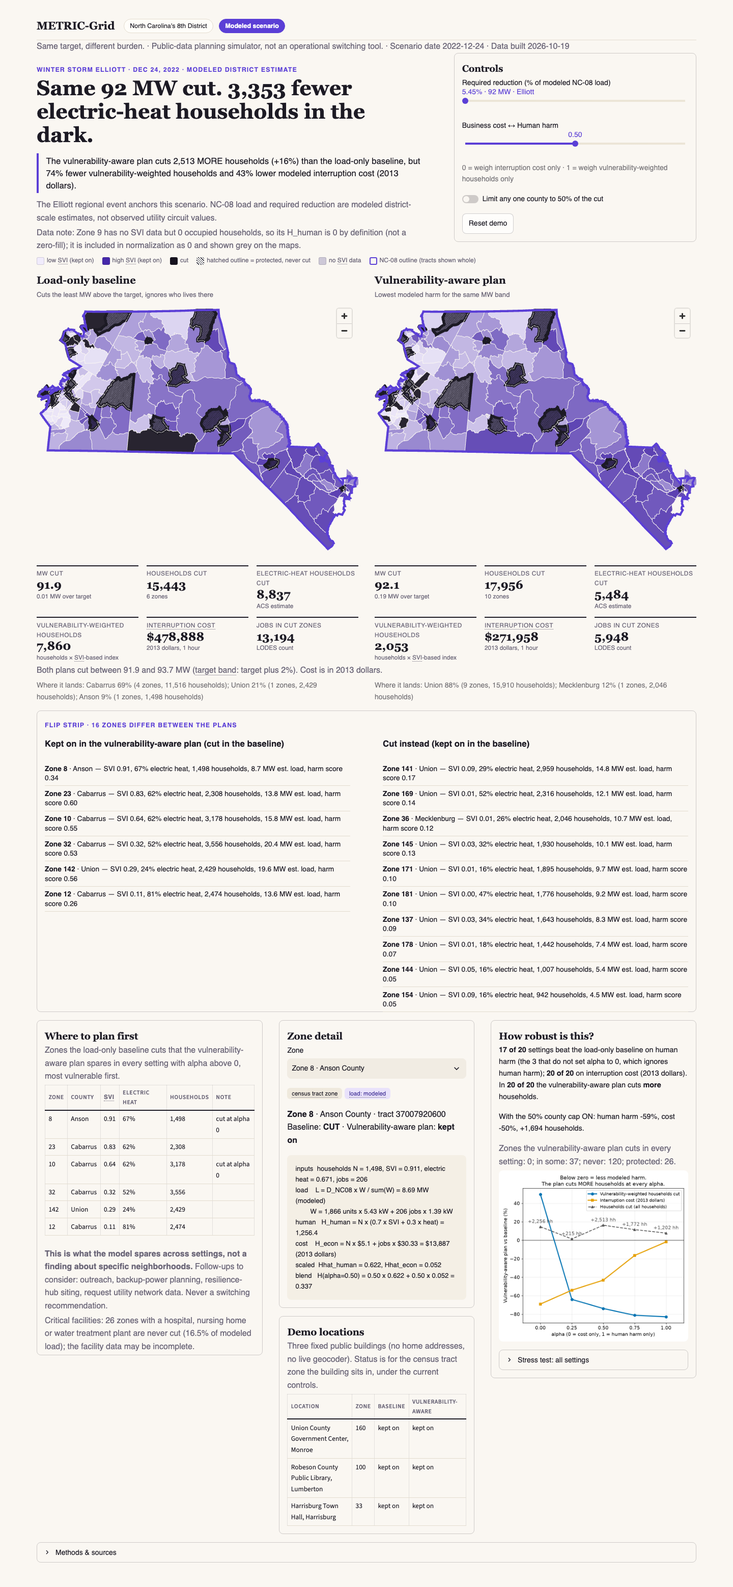
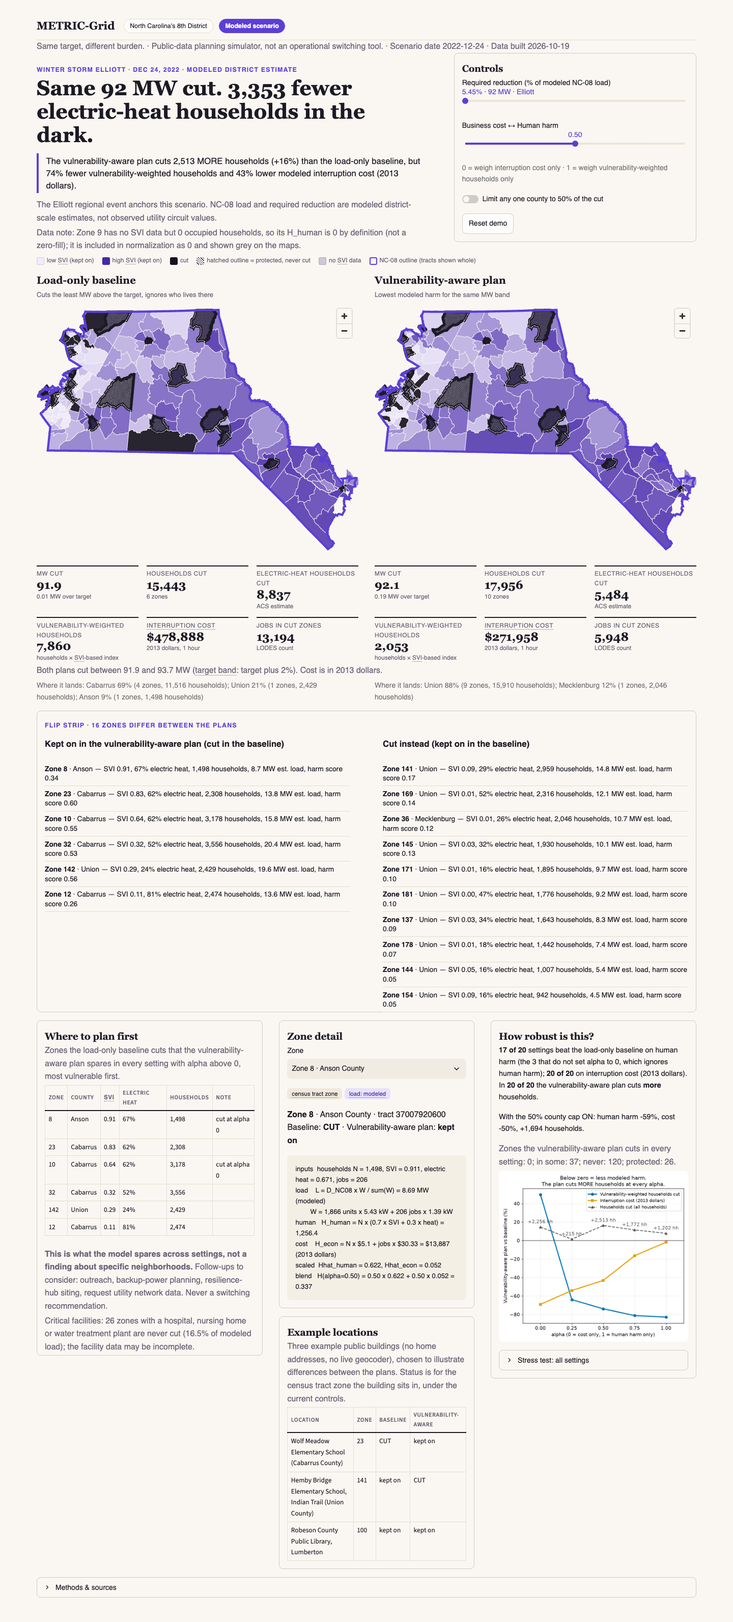
Example locations, verified citations, preset-only slider, split pinned requirements, firmware removed, spec amendments

diff --git a/tests/test_app.py b/tests/test_app.py
@@ -147,7 +147,7 @@ def test_get_view_prefers_presolved_and_falls_back_with_a_note(monkeypatch):
     A = data.load_all()
     v = data.get_view(0.5, data.pct_options(A["consts"], A["cfg"])[0], False)
     assert v["source"] == "pre-solved" and v["note"] is None
-    pct = 12.5  # not a preset: needs a live solve
+    pct = 12.5  # off the slider (the app never offers it): exercises the safety-net path directly
 
     monkeypatch.setattr(data, "_live_solve", lambda a, t, c: {"error": "ValueError: boom"})
     v = data.get_view(0.5, pct, False)
@@ -188,17 +188,28 @@ def test_zone_detail_empty_state_when_no_zone_selected():
     assert not at.exception and "Select a zone to see its inputs and the harm formula" in page_text(at)
 
 
-def test_demo_locations_each_inside_a_zone_of_the_right_county():
+def test_example_locations_each_inside_a_zone_of_the_right_county():
     from metric_grid.app import lookup
     from metric_grid.config import load_config
     z = frozen.load_zones()
-    locs = load_config()["demo_locations"]
+    locs = load_config()["example_locations"]
     assert len(locs) == 3 and {l["county"] for l in locs} == {"Union", "Robeson", "Cabarrus"}
     for loc in locs:
         zid = lookup.locate(z, loc["lat"], loc["lon"])
         assert zid is not None
         assert z.loc[z["zone_id"] == zid, "COUNTY"].iloc[0] == f"{loc['county']} County"
-        assert "home" not in loc["label"].lower() and "residence" not in loc["label"].lower()
+        assert "home" not in loc["label"].lower() and "residence" not in loc["label"].lower() and loc["source"]
+
+
+def test_example_locations_illustrate_a_difference_between_the_plans(default_page):
+    from metric_grid.app import lookup
+    from metric_grid.config import load_config
+    rec = [r for r in frozen.load_presolved() if r["target_key"] == "elliott" and r["alpha"] == 0.5 and not r["cap"]][0]
+    rows = {r["zone_id"]: r for r in lookup.lookup_rows(frozen.load_zones(), load_config()["example_locations"], scenarios.record_to_pair(rec))}
+    assert (rows[23]["baseline"], rows[23]["weighted"]) == ("CUT", "kept on")  # spared by the vulnerability-aware plan
+    assert (rows[141]["baseline"], rows[141]["weighted"]) == ("kept on", "CUT")  # cut instead
+    assert (rows[100]["baseline"], rows[100]["weighted"]) == ("kept on", "kept on")  # the Robeson library
+    assert "Example locations" in page_text(default_page) and "Demo locations" not in page_text(default_page)
 
 
 def test_locate_and_status_edge_cases():
@@ -212,13 +223,13 @@ def test_locate_and_status_edge_cases():
     assert lookup.status(z, cut, pair.weighted) == "CUT"
 
 
-def test_demo_location_table_shows_status_under_both_plans(default_page):
+def test_example_location_table_shows_status_under_both_plans(default_page):
     from metric_grid.app import lookup
     from metric_grid.config import load_config
     text = page_text(default_page)
     rec = [r for r in frozen.load_presolved() if r["target_key"] == "elliott" and r["alpha"] == 0.5 and not r["cap"]][0]
     pair = scenarios.record_to_pair(rec)
-    for row in lookup.lookup_rows(frozen.load_zones(), load_config()["demo_locations"], pair):
+    for row in lookup.lookup_rows(frozen.load_zones(), load_config()["example_locations"], pair):
         assert f"<td>{row['label']}</td><td>{row['zone_id']}</td><td>{row['baseline']}</td><td>{row['weighted']}</td>" in text
 
 
@@ -231,6 +242,8 @@ def test_tooltips_for_svi_ice_census_tract_zone_and_target_band(default_page):
 
 def test_infeasible_target_shows_explanation_and_nearest_result(monkeypatch):
     from metric_grid.app import data
+    real = data.pct_options
+    monkeypatch.setattr(data, "pct_options", lambda c, g: real(c, g) + [12.5])  # a stop that is not pre-solved
     monkeypatch.setattr(data, "_live_solve", lambda a, t, c: {"infeasible": "Requested 999.0 MW exceeds the unprotected load.",
                                                                "max_feasible_mw": 1407.5})
     at = AppTest.from_file(APP, default_timeout=120)
@@ -240,6 +253,23 @@ def test_infeasible_target_shows_explanation_and_nearest_result(monkeypatch):
     text = page_text(at)
     assert "This target cannot be met" in text and "maximum feasible reduction 1407.5 MW" in text
     assert "class='note warn'" in text and "Showing the nearest pre-computed setting" in text
+
+
+def test_slider_has_only_the_four_presolved_stops():
+    from metric_grid.app import data
+    from metric_grid.config import load_config
+    consts = frozen.load_constants()
+    opts = data.pct_options(consts, load_config())
+    assert len(opts) == 4 and opts[1:] == [10, 15, 20]
+    assert abs(opts[0] - 100 * consts["T_NC08_mw"] / consts["D_NC08_mw"]) < 1e-12
+    for p in opts:  # every stop is pre-solved for every alpha, cap on and off: normal use never solves live
+        key, _ = data.target_for(p, consts)
+        for cap in (False, True):
+            assert {r["alpha"] for r in frozen.load_presolved() if r["target_key"] == key and r["cap"] == cap and r["solved"]} == {0, 0.25, 0.5, 0.75, 1}
+    at = AppTest.from_file(APP, default_timeout=120)
+    at.query_params["pct"] = "12.5"  # off-grid deep link snaps to a stop
+    at.run()
+    assert not at.exception and at.session_state["pct"] in opts and "Showing nearest" not in page_text(at)
 
 
 def test_missing_frozen_data_state_explains_what_to_do(monkeypatch, tmp_path):

diff --git a/tests/test_audit.py b/tests/test_audit.py
@@ -135,3 +135,73 @@ def test_reviews_template_has_three_reviewer_types_and_no_endorsement_claim():
     for kind in ("non-expert", "programmer", "policy or energy"):
         assert kind in r
     assert "Never claim endorsement" in r and "endorse" not in r.replace("Never claim endorsement", "").lower().replace("endorsement.", "")
+
+
+# ---------------- housekeeping decisions (2026-10-19) ----------------
+
+def _runtime_third_party_imports() -> set[str]:
+    out = set()
+    files = list((ROOT / "src/metric_grid/app").glob("*.py")) + list((ROOT / "src/metric_grid/model").glob("*.py")) + [
+        ROOT / "src/metric_grid/frozen.py", ROOT / "src/metric_grid/config.py"]
+    for f in files:
+        for n in ast.walk(ast.parse(f.read_text())):
+            mods = [a.name.split(".")[0] for a in n.names] if isinstance(n, ast.Import) else (
+                [n.module.split(".")[0]] if isinstance(n, ast.ImportFrom) and n.module and n.level == 0 else [])
+            out |= {m for m in mods if m not in sys.stdlib_module_names and m != "metric_grid"}
+    return out
+
+
+def _requirement_names(path: str) -> list[str]:
+    lines = [l.split("#")[0].strip() for l in (ROOT / path).read_text().splitlines()]
+    return [l for l in lines if l and not l.startswith("-r")]
+
+
+def test_requirements_txt_is_exactly_the_runtime_imports_and_pinned():
+    reqs = _requirement_names("requirements.txt")
+    assert all(re.fullmatch(r"[A-Za-z0-9_.\-]+==[0-9][A-Za-z0-9_.]*", r) for r in reqs), reqs
+    names = {r.split("==")[0].lower().replace("pyyaml", "yaml") for r in reqs}
+    assert names == _runtime_third_party_imports()
+    for unused in ("scipy", "pyarrow", "fastapi", "uvicorn", "httpx", "python-kasa", "pytest", "matplotlib", "requests", "playwright"):
+        assert unused not in names
+
+
+def test_dev_and_node_requirements_split():
+    dev = {r.split("==")[0] for r in _requirement_names("requirements-dev.txt")}
+    node = {r.split("==")[0] for r in _requirement_names("requirements-node.txt")}
+    assert {"pytest", "matplotlib", "requests", "playwright"} <= dev
+    assert node == {"fastapi", "uvicorn", "httpx", "python-kasa"} and "scipy" not in dev and "pyarrow" not in dev
+    assert all("==" in r for r in _requirement_names("requirements-dev.txt") + _requirement_names("requirements-node.txt"))
+
+
+def test_firmware_folder_removed_and_readme_notes_the_prototype():
+    assert not (ROOT / "firmware").exists() and not any(f.startswith("firmware/") for f in tracked())
+    readme = (ROOT / "README.md").read_text()
+    assert "Optional hardware prototype (ESP32 outage + indoor temperature logger) is in progress and not part of this submission." in readme
+
+
+def test_readme_notes_the_seven_clean_clone_skips():
+    readme = (ROOT / "README.md").read_text()
+    assert "skips 7" in readme and "run `make data` first" in readme
+
+
+def test_no_ncuc_citation_and_prior_work_entries_are_verified_ones():
+    readme = (ROOT / "README.md").read_text()
+    assert "NCUC" not in readme and "M-100" not in readme
+    for title in ("The inequitable distribution of power interruptions during the 2021 Texas winter storm Uri",
+                  "Impact of power outages depends on who loses it: Equity-informed grid resilience planning via stochastic optimization",
+                  "Equity-aware Load Shedding Optimization", "Sharing the Load: Considering Fairness in De-energization Scheduling",
+                  "Equitable Networked Microgrid Topology Reconfiguration for Wildfire Risk Mitigation",
+                  "Machine Learning for Fairness-Aware Load Shedding", "Equitably allocating wildfire resilience investments for power grids"):
+        assert title in readme, title
+    for ref in ("10.1088/2634-4505/acd4e7", "10.1016/j.seps.2024.102036", "2406.17877", "2204.06543", "2402.04444", "2407.18989", "2404.11520"):
+        assert ref in readme, ref
+
+
+def test_spec_has_amendments_table_with_every_required_change():
+    spec = (ROOT / "docs" / "SPEC.md").read_text()
+    head = spec.split("You are building")[0]
+    assert head.startswith("## Spec amendments")
+    for needle in ("Two utilities", "Shared target band", "census tracts", "county-share cap", "hospitals, nursing homes and water treatment",
+                   "pre-solved at `make freeze`", "four stops only"):
+        assert needle in head, needle
+    assert len(re.findall(r"\| 2026-10-\d\d \|", head)) >= 6  # each row dated

diff --git a/src/metric_grid/app/streamlit_app.py b/src/metric_grid/app/streamlit_app.py
@@ -219,10 +219,11 @@ with c2, st.container(border=True):
         st.caption("Select a zone to see its inputs and the harm formula with its numbers substituted.")
 
 with c2, st.container(border=True):
-    st.markdown("<div class='serif' style='font-size:1.2rem;font-weight:700'>Demo locations</div>", unsafe_allow_html=True)
-    st.markdown("<p class='scaling'>Three fixed public buildings (no home addresses, no live geocoder). Status is for the census "
-                "tract zone the building sits in, under the current controls.</p>", unsafe_allow_html=True)
-    lrows = lookup.lookup_rows(zones, cfg["demo_locations"], r)
+    st.markdown("<div class='serif' style='font-size:1.2rem;font-weight:700'>Example locations</div>", unsafe_allow_html=True)
+    st.markdown("<p class='scaling'>Three example public buildings (no home addresses, no live geocoder), chosen to illustrate "
+                "differences between the plans. Status is for the census tract zone the building sits in, under the current "
+                "controls.</p>", unsafe_allow_html=True)
+    lrows = lookup.lookup_rows(zones, cfg["example_locations"], r)
     st.markdown("<table class='t'><tr><th>Location</th><th>Zone</th><th>Baseline</th><th>Vulnerability-aware</th></tr>" + "".join(
         f"<tr><td>{x['label']}</td><td>{x['zone_id']}</td><td>{x['baseline']}</td><td>{x['weighted']}</td></tr>" for x in lrows)
         + "</table>", unsafe_allow_html=True)

diff --git a/src/metric_grid/app/data.py b/src/metric_grid/app/data.py
@@ -24,11 +24,10 @@ def load_all() -> dict:
 
 
 def pct_options(consts: dict, cfg: dict) -> list[float]:
-    """Slider choices: the Elliott-anchored target first, then the presets and midpoints."""
+    """Slider stops: the Elliott-anchored target first (the default), then the configured presets. No off-grid stops, so every
+    stop is pre-solved and instant."""
     elliott = 100 * consts["T_NC08_mw"] / consts["D_NC08_mw"]
-    presets = cfg["optimizer"]["target_pcts"]
-    mids = [(a + b) / 2 for a, b in zip(presets, presets[1:])]
-    return [elliott] + sorted(presets + mids)
+    return [elliott] + sorted(cfg["optimizer"]["target_pcts"])
 
 
 def target_for(pct: float, consts: dict) -> tuple[str, float]:

diff --git a/docs/ASSUMPTIONS.md b/docs/ASSUMPTIONS.md
@@ -128,7 +128,7 @@ Compared with the cap OFF numbers (weighted: 88% of cuts in Union; vulnerability
 - **Everything on the page is computed**: headline, honest line, flip-strip sentences, metrics and the robustness counts are built from model results and `data/frozen/` (tests compare the page text with the model output). The headline flips wording with the numbers: at alpha = 0 it reads "N MORE electric-heat households in the dark" and the honest line says "50% more vulnerability-weighted households".
 - **Honesty line.** The sentence from `scenarios.plain_summary`, which says "cuts N MORE households" when that is what the numbers say, sits directly under the headline in every state. Dollar figures are labeled "2013 dollars".
 - **Counts differ from the brief.** The robustness card computes its counts live from the sensitivity table: now 17 of 20 settings beat the baseline on human harm (the 3 that do not set alpha to 0), 20 of 20 on cost, 20 of 20 cut more households. (The brief said 16 of 19; the county-cap row made it 20 settings.)
-- **Pre-solved grid is now 40 records** (cap OFF and ON x 5 alphas x Elliott/10/15/20%), because the first capped live solve took 2.2 s and tripped the 2 s limit. Off-grid settings (the 7.5/12.5/17.5% slider stops) solve live; if that errors, is infeasible, or takes over 2 s the app shows the nearest pre-solved result with a visible note.
+- **Pre-solved grid is now 40 records** (cap OFF and ON x 5 alphas x Elliott/10/15/20%), because the first capped live solve took 2.2 s and tripped the 2 s limit. The reduction slider has only the four pre-solved stops (Elliott default, 10%, 15%, 20%), so normal use never solves live. The live-solve path remains as a safety net (if config adds a stop, or a lookup misses): when it errors, is infeasible, or takes over 2 s the app shows the nearest pre-solved result with a visible note.
 - **Offline maps.** Streamlit's frontend falls back to Carto basemap tiles from the internet when no map style is given; a Playwright network log caught this. The maps use a blank inline style (a data: URL), and the browser check shows zero external requests. Maps have no basemap, so the zones and NC-08 outline are the only features.
 - **Rendering bug.** `line_width_units="pixels"` drew huge solid lines in this deck.gl version; the maps use `line_width_min_pixels`. Protected zones are drawn with real diagonal hatch lines (deck.gl has no fill patterns).
 - **Wording fix.** The brief's follow-up wording used a banned term, so the card says "request utility network data". The required rule-4 sentence contains one banned word and is shown verbatim, so the banned-word check exempts that exact sentence.
@@ -137,12 +137,18 @@ Compared with the cap OFF numbers (weighted: 88% of cuts in Union; vulnerability
 
 ## Phase 6: demo locations, states, audit (2026-10-19)
 
-- **Demo locations (config `demo_locations`).** Union County Government Center (Monroe), Robeson County Public Library (Lumberton), Harrisburg Town Hall (Harrisburg, Cabarrus). Public buildings only, no home addresses, no geocoder at runtime. Coordinates are the US Census Geocoder result for each street address (benchmark Public_AR_Current, looked up once on 2026-10-19; the geocoder was used at development time only). That each address is the named building is from public knowledge and is NOT verified: the author should check each before submission. Concord City Hall and Kannapolis City Hall were tried first for Cabarrus and fall outside the NC-08 zones, so they were not used. Each location is reported as the status of the census tract zone it sits in. In the default scenario all three zones are "kept on" under both plans (zones 160, 100, 33); only the Union zone is cut (baseline, 20% target with the county cap). The locations were chosen by county and building type, not by outcome.
+- **Example locations (config `example_locations`; the app card is titled "Example locations").** Three public buildings, no home addresses, no live geocoder: Wolf Meadow Elementary School (Cabarrus, zone 23), Hemby Bridge Elementary School, Indian Trail (Union, zone 141) and the Robeson County Public Library, Lumberton (zone 100). **They were chosen to illustrate differences between the plans**, not at random: in the default scenario the baseline cuts zone 23 and the vulnerability-aware plan spares it, the vulnerability-aware plan cuts zone 141 and the baseline does not, and zone 100 is kept on under both. The school locations are the OpenStreetMap record's name, street address and centroid (pulled via Overpass on 2026-10-19; each point lies inside its zone, which a test checks); the library's coordinates are the US Census Geocoder result for its street address (benchmark Public_AR_Current, 2026-10-19), and that the address is the library is from public knowledge, so the author should verify it. A school near the author's own was deliberately not used. Each location is reported as the status of the census tract zone it sits in. (An earlier set of three buildings was replaced because all three read "kept on" under both plans.)
 - **Zone detail opens on the top priority zone** (zone 8, the first row of the priority list, read from sensitivity.json, not typed).
 - **States.** Empty (no zone selected; `?zone=0`), loading (live solves show a spinner), infeasible (an orange note with the model's reason and the maximum feasible MW, plus the nearest pre-computed result), missing data (zone 9 has no SVI: a visible data note and a grey zone), missing frozen files (the page says to run `make data` and `make freeze`; no stack trace). Tests cover each.
 - **Tooltips** for SVI, ICE, census tract zone and target band are native hover text (definitions in `app/copy.py`; the band tooltip fills its percentages from config).
 - **Audit (`tests/test_audit.py`).** Banned-word check over every tracked text file (exempt: the brief, CLAUDE.md and the files that define the banned list; the required rule-4 sentence is removed before checking); AI_DISCLOSURE lists every tracked file; no model numbers typed into app strings (only label facts such as years and dataset names); README table and shot-list numbers match the model; the shot-list code excerpt matches optimizer.py line for line.
 - **App figure** in the robustness card is a compact version with larger type (data/frozen/alpha_tradeoff.png); the wide version is docs/figures/alpha_tradeoff.png.
+
+## Housekeeping decisions (2026-10-19)
+
+- **Requirements.** `requirements.txt` has only what the app imports at runtime (streamlit, geopandas, shapely, pandas, numpy, pydeck, pulp, PyYAML), pinned. `requirements-dev.txt` adds pytest, matplotlib, requests and Playwright. `requirements-node.txt` holds the unused node packages (fastapi, uvicorn, httpx, python-kasa). scipy and pyarrow are unused by any code and are listed only as comments in the dev file. A fresh environment built from `requirements.txt` alone renders the app (checked).
+- **Citations.** The NCUC docket citation was removed. Each remaining prior-work entry's title and authors were confirmed from arXiv or Crossref records (the "UT Austin" entry was identified through the university's news release and confirmed in Crossref: Toplu-Tutay, Hasenbein, Kutanoglu, 2024). They were not read in full by the assistant; the author should read them before describing them in the video.
+- **Hardware prototype.** The three empty firmware placeholders and the throwaway test sketches were deleted; the README has a one-line note that the prototype is in progress and not part of this submission. The empty `src/metric_grid/nodes/*.py` stubs from the original layout remain.
 
 ## Data-source failures and fallbacks
 See
@@ -200,7 +206,7 @@ See
 **Sourced shed amounts (max firm load shed).**
 - DEC 1,000 MW. ORS p.39: "a load shed of 400 MW was directed at 6:14 AM and implemented ... at 6:27 AM. Two (2) additional load shed requests of 300 MW each were implemented at 7:00 and 7:01 AM ... total load shed directive of 1,000 MW ... The amount of load shed was ultimately maintained at 1,000 MW." FERC-NERC PDF p.71: DEC "ordered 400 MW of firm load shed, later increasing it to 1,000 MW at 7:10 a.m."
 - DEP 961 MW. FERC-NERC PDF p.71: "DEP ordered 600 MW of firm load shed at 6:25 a.m., but increased it to 800 MW at 7:10 a.m., up to a maximum of 961 MW by 7:56 a.m." ORS p.39: requests of 600 MW (6:25), 200 MW (7:10), 50 MW (7:43) and approximately 111 MW manual at transmission level (7:52), which sum to 961 MW. The two reports agree.
-- **Timing caveat.** We use each utility's maximum shed. DEC had reached 1,000 MW by 7:01 (the reference hour). DEP was at about 600 MW at 07:00 and reached 961 MW at 7:56, so using 961 MW against 07:00 demand is generous to DEP. Using 600 MW instead lowers T_NC08 from 91.9 to about 78 MW (DEP term 36.8 -> 23.0 MW). Default stays at the maximum so both utilities use the same definition; the 600 MW DEP case is a sensitivity row in the frozen constants and the app. The earlier "NCUC Docket M-100 Sub 163" citation was replaced by these two reports.
+- **Timing caveat.** We use each utility's maximum shed. DEC had reached 1,000 MW by 7:01 (the reference hour). DEP was at about 600 MW at 07:00 and reached 961 MW at 7:56, so using 961 MW against 07:00 demand is generous to DEP. Using 600 MW instead lowers T_NC08 from 91.9 to about 78 MW (DEP term 36.8 -> 23.0 MW). Default stays at the maximum so both utilities use the same definition; the 600 MW DEP case is a sensitivity row in the frozen constants and the app.
 
 **EIA-930 demand at 07:00 local (EST), 2022-12-24.** DEC (DUK) 20,879 MW. DEP 13,986 MW = CPLE 12,711 + CPLW 1,275. EIA-861 lists DEP as one utility whose territory spans both Progress East and West, so DEP demand is CPLE + CPLW and is scaled over the whole DEP footprint; this avoids needing an east/west county list (no authoritative one was found; NC-08 DEP counties are all in CPLE). The spec's single `balancing_authority` became the `balancing_authorities` list in config (DUK -> CPLE + CPLW added together, which differs from the "[DUK, CPLE]" you suggested).
 

diff --git a/README.md b/README.md
@@ -45,15 +45,16 @@ Required reduction 91.9 MW (modeled district estimate), alpha 0.5, both plans cu
 - **Costs are 2013 dollars and one commercial rate.** The LBNL report gives costs by customer size, not by sector, and per average kW, which likely overstates a cold-morning job. The Small C&I rate is a sensitivity row.
 - **Judgment calls:** harm weights (0.7 SVI, 0.3 electric heat), a 1-hour outage, a 2% band, a 10 kW baseline tolerance, splitting counties served by both utilities by estimated customers, and using each utility's maximum shed. All are in `config.yaml` and varied in the sensitivity table.
 - **No validation against actual outage records.** Nothing here says where Duke did or would cut. The priority list is what *this model* spares across settings, not a finding about specific neighborhoods.
-- **Dependencies installed but not used yet:** scipy (for the unimplemented substation zones), pyarrow, and the node packages (fastapi, uvicorn, httpx, python-kasa).
 
 ## Run it (works offline)
 
 ```bash
-python3.11 -m venv .venv && .venv/bin/pip install -r requirements.txt   # needs network once, to install packages
+python3.11 -m venv .venv && .venv/bin/pip install -r requirements-dev.txt   # needs network once, to install packages
 make test        # runs the tests; no network, no API keys
 make demo        # opens the app on the frozen scenario (http://localhost:8765)
 ```
+
+`requirements.txt` is exactly what the deployed app imports (pinned); `requirements-dev.txt` adds the test, figure and data-refresh tools. **In a clean clone `make test` skips 7 tests and passes the rest:** the seven data-pull checks (tract count, GEOID cleanliness, no silent NaN fills, facility types, the area-join identity check, the saved EIA series, the county table) need the raw downloads in `data/raw/`, which are gitignored; they run after `make data`. The skips say "run `make data` first".
 
 The app reads only `data/frozen/` (committed, about 1 MB). There are no live API calls at runtime and it renders with every network call blocked (a test does exactly that). `make data` (needs `EIA_API_KEY` and `CENSUS_API_KEY` in `.env`) and `make freeze` rebuild the frozen inputs from the public sources; they are only needed to refresh data. Deep links for the controls: `?alpha=1&pct=10&cap=1&zone=23`.
 
@@ -82,12 +83,20 @@ URLs, retrieval notes and every fallback are in `docs/DATA_SOURCES.md` and `docs
 
 ## Prior work
 
-- Shah et al. 2023, doi:10.1088/2634-4505/acd4e7.
-- UT Austin work on equity-informed power-system resilience (citation to be added by the author).
-- arXiv:2406.17877, arXiv:2204.06543, arXiv:2402.04444, arXiv:2407.18989, arXiv:2404.11520 (listed in the project brief; titles to be added by the author).
-- SC Office of Regulatory Staff, "Inspection and Examination Report of DEC and DEP December 2022 Winter Storm Outages and Blackouts" (read; source of shed amounts).
-- FERC-NERC-Regional Entity staff report, "Inquiry into Bulk-Power System Operations During December 2022 Winter Storm Elliott" (read; source of shed amounts and timing).
-- NCUC Docket M-100 Sub 163 is named in the project brief but was not read for this project; the shed amounts come from the two reports above.
+Titles and authors below were confirmed from the publishers' or arXiv's records. They are related work, listed so a reader can compare approaches; this project does not reproduce their methods.
+
+- Zeal Shah, Juan Pablo Carvallo, Feng-Chi Hsu, Jay Taneja, "The inequitable distribution of power interruptions during the 2021 Texas winter storm Uri," *Environmental Research: Infrastructure and Sustainability* 3 (2023), doi:10.1088/2634-4505/acd4e7.
+- Gizem Toplu-Tutay, John J. Hasenbein, Erhan Kutanoglu, "Impact of power outages depends on who loses it: Equity-informed grid resilience planning via stochastic optimization," *Socio-Economic Planning Sciences* 95 (2024), doi:10.1016/j.seps.2024.102036 (University of Texas at Austin).
+- Xin Fang, Wenbo Wang, Fei Ding, "Equity-aware Load Shedding Optimization," arXiv:2406.17877 (2024).
+- Alyssa Kody, Amanda West, Daniel K. Molzahn, "Sharing the Load: Considering Fairness in De-energization Scheduling to Mitigate Wildfire Ignition Risk using Rolling Optimization," arXiv:2204.06543 (2022).
+- Yuqi Zhou, Ahmed Zamzam, Andrey Bernstein, "Equitable Networked Microgrid Topology Reconfiguration for Wildfire Risk Mitigation," arXiv:2402.04444 (2024).
+- Yuqi Zhou, Joseph Severino, Sanjana Vijayshankar, Juliette Ugirumurera, Jibo Sanyal, "Machine Learning for Fairness-Aware Load Shedding: A Real-Time Solution via Identifying Binding Constraints," arXiv:2407.18989 (2024).
+- Madeleine Pollack, Ryan Piansky, Swati Gupta, Daniel Molzahn, "Equitably allocating wildfire resilience investments for power grids: The curse of aggregation and vulnerability indices," arXiv:2404.11520 (2024).
+
+Sources of the facts used (read in full for the passages cited):
+
+- SC Office of Regulatory Staff, "Inspection and Examination Report of DEC and DEP December 2022 Winter Storm Outages and Blackouts."
+- FERC-NERC-Regional Entity staff report, "Inquiry into Bulk-Power System Operations During December 2022 Winter Storm Elliott" (November 2023).
 
 ## AI disclosure
 
@@ -95,7 +104,9 @@ Claude and Claude Code (Anthropic) scaffolded and wrote most of this repository,
 
 ## Open-source software used
 
-Streamlit (the app), GeoPandas and shapely (geometry), pandas and NumPy (tables), PuLP with the CBC solver (optimization), pydeck (maps), matplotlib (static figures), PyYAML (config), requests (data downloads), pytest (tests), Playwright (screenshots, dev only).
+Runtime (`requirements.txt`): Streamlit (the app), GeoPandas and shapely (geometry), pandas and NumPy (tables), PuLP with the CBC solver (optimization), pydeck (maps), PyYAML (config). Development (`requirements-dev.txt`): pytest (tests), matplotlib (static figures), requests (data downloads), Playwright (screenshots).
+
+Optional hardware prototype (ESP32 outage + indoor temperature logger) is in progress and not part of this submission.
 
 ## Version 2.0 ideas
 

diff --git a/docs/SPEC.md b/docs/SPEC.md
@@ -1,3 +1,21 @@
+## Spec amendments
+
+The brief below is kept as written. These are the places where the build differs from it, with the date and the one-line reason. Details and numbers are in `docs/ASSUMPTIONS.md`.
+
+| Date | Change | Why |
+|---|---|---|
+| 2026-10-18 | Two utilities, not one: district load is scaled from Duke Energy Carolinas (EIA-930 DUK) and Duke Energy Progress (CPLE + CPLW), each with its own reduction ratio | Both utilities shed load on Dec 24, 2022 and serve NC-08 counties; one balancing authority would scale DEP territory with the wrong demand |
+| 2026-10-18 | Shed amounts (1,000 MW and 961 MW) come from the SC Office of Regulatory Staff report and the FERC-NERC Elliott report, not the NCUC docket | The two reports state the figures and were read; the docket was not |
+| 2026-10-18 | Shared target band (T to T plus 2%, widened to at most 5%) replaces "Stage B holds exactly T*" | Exact equality is feasible but took about 34 s to solve against about 0.5 s for the band; load is also shed in blocks |
+| 2026-10-18 | Zones are census tracts (`zone_mode: tract`); no substation zones | The HIFLD Open substation layer was not reachable; the copies found cover transmission-level (69 kV and up) substations only |
+| 2026-10-18 | Hard exclusions are hospitals, nursing homes and water treatment only; fire, police and wastewater are display-only | Including fire and police would protect 42.6% of housing units, too much room taken from the optimizer |
+| 2026-10-18 | Optional county-share cap (default off) added as a toggle and a sensitivity row | The harm-weighted plan put 88% of its cut in one county |
+| 2026-10-18 | The demo grid is pre-solved at `make freeze`, not at app start | The 10-20% presets take 2-3 s each, and the first capped solve exceeded the 2 s limit |
+| 2026-10-19 | The reduction slider has four stops only: Elliott (default), 10%, 15%, 20% | Every stop is pre-solved and instant; off-grid stops fell back to a nearest result |
+| 2026-10-19 | The optional node (spec Phase 5) and its firmware folder are out of this submission | The hardware prototype is still in progress |
+
+---
+
 You are building **METRIC-Grid**. One-sentence purpose: METRIC-Grid helps emergency planners and community stakeholders compare how load-only and vulnerability-aware outage scenarios could distribute risk across North Carolina's 8th Congressional District (NC-08).
 
 **Primary user:** a county emergency planner who wants to know whether two technically equal outage scenarios could impose very different consequences on vulnerable communities, and leaves with a short list of zones to prioritize for outreach, warming centers, and backup power. Secondary: state utility-policy staff, consumer advocates, community organizations, local officials, journalists, students. Not utility operators (needs private feeder data) and not residents (no household prediction). It is a Congressional App Challenge submission due 12:00 pm EDT, October 26, 2026. I am a high-school student with FRC programming experience. Build it as a real, runnable, offline-capable project with tests. Less scope, more proof.

diff --git a/docs/AI_DISCLOSURE.md b/docs/AI_DISCLOSURE.md
@@ -1,7 +1,7 @@
 # AI disclosure
 
 ## Tools used
-- **Claude** (Anthropic): design discussion and drafting of the project spec; the firmware and node server (not in this repository yet) are AI-written with Claude, reviewed by the author, hardware testing in progress.
+- **Claude** (Anthropic): design discussion and drafting of the project spec; the optional hardware prototype's firmware and node server (not in this repository; in progress, not part of this submission) are AI-written with Claude, reviewed by the author, hardware testing in progress.
 - **Claude Code** (Anthropic CLI): scaffolded and wrote the repository's code, tests and documentation, ran the data pulls, and produced the figures and screenshots.
 - **Perplexity**: used by the author for research. (Author: add what you used it for.)
 
@@ -25,16 +25,11 @@ Not listed individually because they are generated by `make freeze` or `scripts/
 | `docs/ASSUMPTIONS.md` | AI-scaffolded (Claude Code); author edits TBD | TODO (author) |
 | `docs/DATA_SOURCES.md` | AI-scaffolded (Claude Code); author edits TBD | TODO (author) |
 | `docs/REVIEWS.md` | AI-scaffolded (Claude Code); author edits TBD | TODO (author) |
-| `docs/SPEC.md` | Author-provided project spec (author: state which parts AI helped write) | TODO (author) |
+| `docs/SPEC.md` | Author-provided project spec; the amendments table at the top was added by Claude Code (author: state which parts of the original AI helped write) | TODO (author) |
 | `docs/VIDEO_SHOTLIST.md` | AI-scaffolded (Claude Code); author edits TBD | TODO (author) |
-| `firmware/bus_check/bus_check.ino` | Author-written hardware test (author to confirm) | TODO (author) |
-| `firmware/bus_check2/bus_check2.ino` | Author-written hardware test (author to confirm) | TODO (author) |
-| `firmware/i2c_scan/i2c_scan.ino` | Author-written hardware test (author to confirm) | TODO (author) |
-| `firmware/metric_node/README.md` | Empty placeholder (AI-scaffolded); the real firmware is AI-written with Claude, reviewed by the author, hardware testing in progress, and will be added later | TODO (author) |
-| `firmware/metric_node/metric_node.ino` | Empty placeholder (AI-scaffolded); the real firmware is AI-written with Claude, reviewed by the author, hardware testing in progress, and will be added later | TODO (author) |
-| `firmware/metric_node/secrets.example.h` | Empty placeholder (AI-scaffolded); the real firmware is AI-written with Claude, reviewed by the author, hardware testing in progress, and will be added later | TODO (author) |
 | `pytest.ini` | AI-scaffolded (Claude Code) | TODO (author) |
 | `requirements-dev.txt` | AI-scaffolded (Claude Code) | TODO (author) |
+| `requirements-node.txt` | AI-scaffolded (Claude Code) | TODO (author) |
 | `requirements.txt` | AI-scaffolded (Claude Code) | TODO (author) |
 | `scripts/app_screenshots.py` | AI-scaffolded (Claude Code) | TODO (author) |
 | `src/metric_grid/app/copy.py` | AI-scaffolded (Claude Code) | TODO (author) |

diff --git a/docs/VIDEO_SHOTLIST.md b/docs/VIDEO_SHOTLIST.md
@@ -13,7 +13,7 @@ Say it plainly: this is a **modeled planning scenario**, not Duke's method, not 
 | 3 | 0:45-1:05 | same, scroll to the metrics under the maps and the flip strip | MW cut, households, electric-heat households, vulnerability-weighted households, interruption cost (2013 dollars); "Where it lands" lines (Union 88%) | More households cut, fewer vulnerable ones. Be upfront that the cut concentrates in one low-vulnerability county. |
 | 4 | 1:05-1:25 | `?alpha=1` then `?alpha=0` | alpha 1: human harm only. alpha 0: headline flips to "MORE electric-heat households" | The slider is a value judgment, not math. At alpha 0 the plan does worse on human harm: show it. |
 | 5 | 1:25-1:40 | `?cap=1` | "No county takes more than 50% of either plan's cut" | One answer to concentration; it limits any county's share, it does not make the plan fair. |
-| 6 | 1:40-2:05 | default, scroll to the three cards (zone 8 is open) | Where to plan first (6 zones, "cut at alpha 0" flags), Zone detail with the formula and its numbers, Demo locations table (Union, Robeson, Cabarrus public buildings) | A planner leaves with a short list for outreach and backup power. It is what the model spares across settings, not a finding about specific neighborhoods. In the default state all three demo buildings read "kept on" under both plans: say so (that is the model's answer); `?pct=20&cap=1` shows the Union building's zone cut in the baseline. |
+| 6 | 1:40-2:05 | default, scroll to the three cards (zone 8 is open) | Where to plan first (6 zones, "cut at alpha 0" flags), Zone detail with the formula and its numbers, Example locations table (Wolf Meadow Elementary, Hemby Bridge Elementary, Robeson County Public Library) | A planner leaves with a short list for outreach and backup power. It is what the model spares across settings, not a finding about specific neighborhoods. In the default state the Cabarrus school (zone 23) is CUT in the baseline and kept on in the vulnerability-aware plan, the Union school (zone 141) is the reverse, and the library is kept on under both. Say they were chosen to illustrate differences. |
 | 7 | 2:05-2:20 | same, "How robust is this?" card, then expand "Stress test" | 17 of 20 settings beat the baseline on human harm; the 3 that do not set alpha to 0; alpha trade-off figure | I tried 20 settings. Say which ones lose. |
 | 8 | 2:20-2:30 | expand "Methods & sources" | The scaling sentence, r definition, band, protected-facility rule, sources table with URLs and dates | Every number is sourced; OpenStreetMap facilities are incomplete. |
 | 9 | 2:30-2:50 | editor: `src/metric_grid/model/optimizer.py` lines 77-84, then line 91 (excerpt below) | The 9 lines | Same band for both plans; protected zones fixed to zero; one objective is load, the other is harm. |

diff --git a/CLAUDE.md b/CLAUDE.md
@@ -25,10 +25,10 @@ Every map draws the NC-08 district outline (data/frozen/district.geojson). Amend
 Run the app with `make app` (port 8765); screenshots with `scripts/app_screenshots.py` (needs requirements-dev.txt). If the app looks stale after a code change, kill whatever holds port 8765 first.
 
 ## Stack
-Python 3.11+, Streamlit, GeoPandas, shapely, scipy, PuLP (CBC), pandas, pyarrow, pydeck, pytest, requests, pyyaml. Node (later): FastAPI + SQLite, httpx, python-kasa, ESP32 Feather V2 firmware. Make targets: data, freeze, test, app, demo, api. Ask before adding anything else.
+Python 3.11, Streamlit, GeoPandas, shapely, PuLP (CBC), pandas, numpy, pydeck, PyYAML (runtime); pytest, matplotlib, requests, Playwright (dev). requirements.txt = exactly the app's runtime imports, pinned; requirements-dev.txt = tests, figures, data refresh; requirements-node.txt = unused node packages. Make targets: data, freeze, test, app, demo, api. Ask before adding anything else.
 
 ## Layout
-`config.yaml` (every constant, source-commented; state/district/BA/counties only here), `data/raw` (gitignored), `data/frozen` (committed, only runtime inputs), `src/metric_grid/{config.py, ingest/, geometry/, model/, app/, nodes/}`, `tests/`, `docs/`, `firmware/`. Node code (server/, tools/, firmware/hw_test, real metric_node) is the author's own, arriving later: do not rewrite or move it; spec Phase 5 is superseded by it. firmware/bus_check*, i2c_scan are throwaway hardware tests: leave alone.
+`config.yaml` (every constant, source-commented; state/district/BA/counties only here), `data/raw` (gitignored), `data/frozen` (committed, only runtime inputs), `src/metric_grid/{config.py, ingest/, geometry/, model/, app/, nodes/}`, `tests/`, `docs/`, `firmware/`. The optional hardware node is out of this submission (the firmware folder was deleted 2026-10-19; node packages are in requirements-node.txt and nothing imports them). Do not recreate placeholder files for it.
 
 ## Working style
 One phase at a time; STOP for review at each phase and report verified / failed / needs decision. Update CHANGELOG.md and docs/AI_DISCLOSURE.md every step (same commit). Small functions with docstrings. Cap dead-data-source workarounds at ~20 min, then fall back and document. Don't overwrite existing files without looking first.

diff --git a/CHANGELOG.md b/CHANGELOG.md
@@ -13,3 +13,4 @@
 - Optional county-share cap (default OFF) with tests and a sensitivity row; priority-list definition (baseline-cut zones spared in every alpha>0 setting) added to sensitivity outputs.
 - Phase 4.5: Streamlit app (two pydeck maps, flip strip, priority list, zone detail, robustness card, methods drawer), offline blank map style, pre-solved grid with cap on/off (40 records), app tests, Playwright screenshots.
 - Phase 6: README, VIDEO_SHOTLIST, REVIEWS template, per-file AI_DISCLOSURE, audit tests, demo locations (3 public buildings), zone 8 default, tooltips, empty/infeasible/missing-data states, `make demo`.
+- Housekeeping: example locations that illustrate differences (zone 23, zone 141, Robeson library); verified prior-work citations (NCUC removed); slider snaps to Elliott/10/15/20; requirements split and pinned; firmware folder deleted; spec amendments table; clean-clone skips noted.
